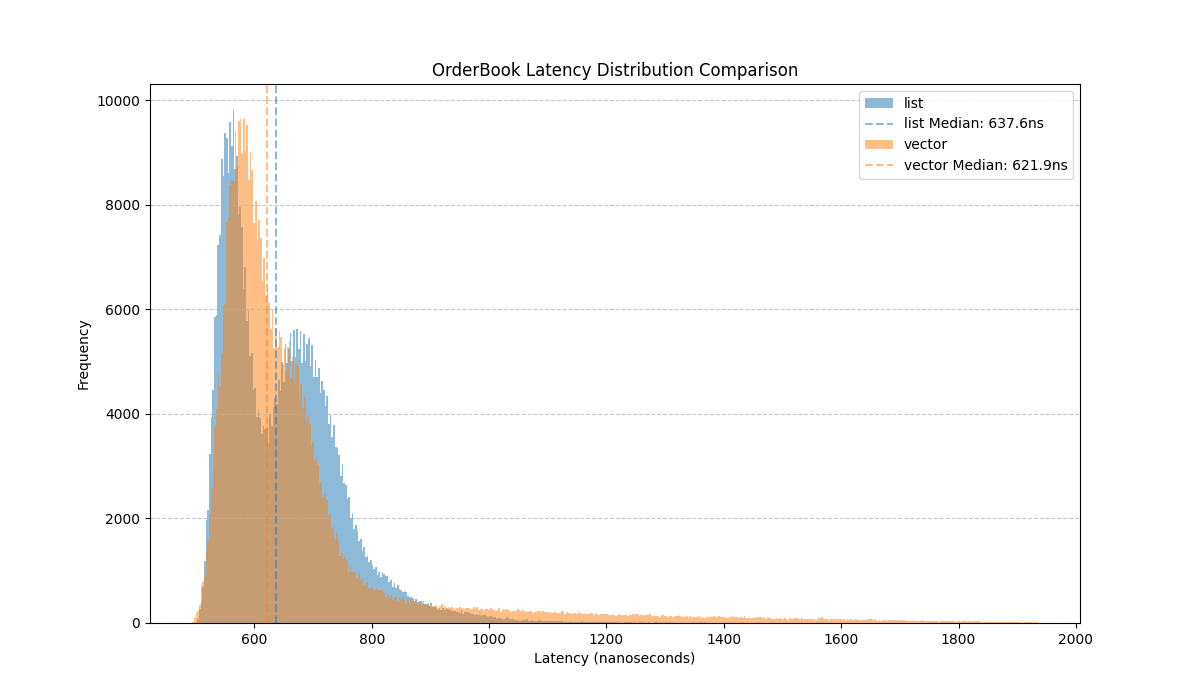
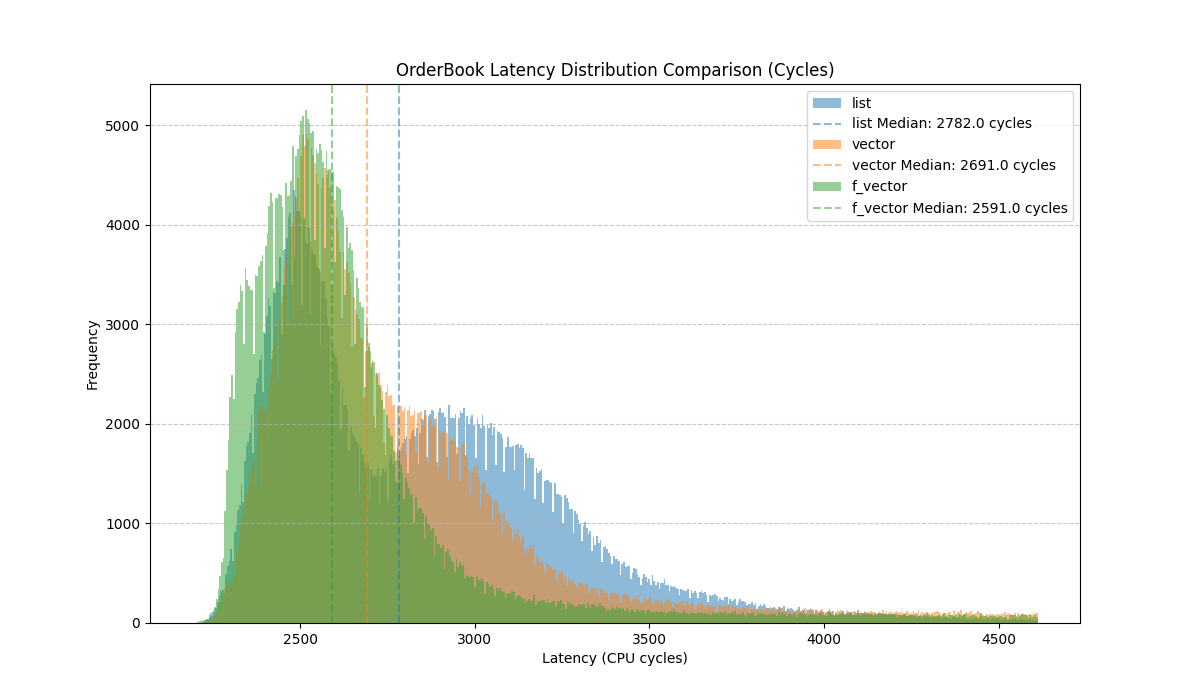
Switched to a better flat_hash_map

diff --git a/f_vector_impl/src/price_level.cpp b/f_vector_impl/src/price_level.cpp
@@ -11,6 +11,7 @@ void PriceLevel::add_order(Order* o) {
         head = o;
     }
     tail = o;
+    cumulative_qty += o->quantity;
 }
 
 void PriceLevel::remove_order(Order* o) {
@@ -25,18 +26,9 @@ void PriceLevel::remove_order(Order* o) {
     } else {
         tail = o->prev;
     }
+    cumulative_qty -= o->quantity;
     o->next = nullptr;
     o->prev = nullptr;
-}
-
-Qty PriceLevel::total_quantity() const {
-    Qty sum = 0;
-    Order* curr = head;
-    while (curr) {
-        sum += curr->quantity;
-        curr = curr->next;
-    }
-    return sum;
 }
 
 void PriceLevel::pop_front() {

diff --git a/f_vector_impl/include/matching_engine.hpp b/f_vector_impl/include/matching_engine.hpp
@@ -1,9 +1,9 @@
 #pragma once
 
 #include "order_book.hpp"
-#include <unordered_map>
 #include <memory>
 #include <functional>
+#include "absl/container/flat_hash_map.h"
 
 namespace engine {
 
@@ -51,8 +51,8 @@ private:
      */
     void match(Order* aggressive, OrderBook& book);
 
-    std::unordered_map<OrderId, std::unique_ptr<Order>> order_store;
-    std::unordered_map<Symbol, OrderBook> books;
+    absl::flat_hash_map<OrderId, std::unique_ptr<Order>> order_store;
+    absl::flat_hash_map<Symbol, OrderBook> books;
     FillCallback on_fill;
 };
 

diff --git a/f_vector_impl/include/price_level.hpp b/f_vector_impl/include/price_level.hpp
@@ -25,9 +25,9 @@ public:
 
     /**
      * @brief Returns the sum of quantities of all orders in this level.
-     * O(n) operation.
+     * O(1) operation (cached).
      */
-    Qty total_quantity() const;
+    Qty total_quantity() const { return cumulative_qty; }
 
     /**
      * @brief Checks if there are no orders in this level.
@@ -47,6 +47,7 @@ public:
 private:
     Order* head;
     Order* tail;
+    Qty cumulative_qty = 0;
 };
 
 } // namespace engine